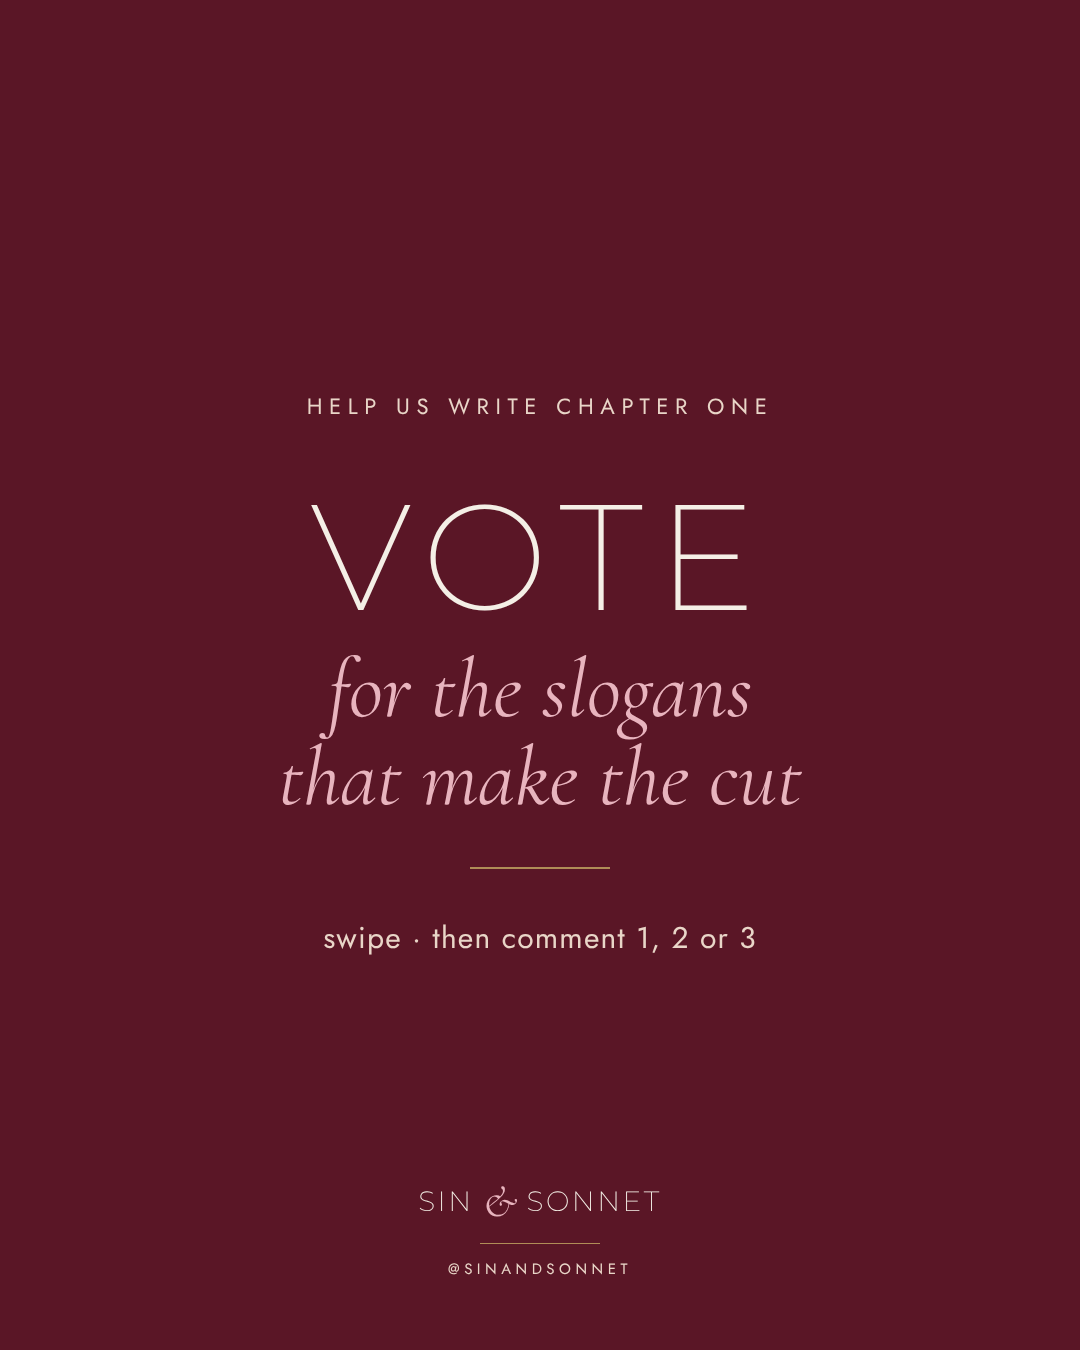
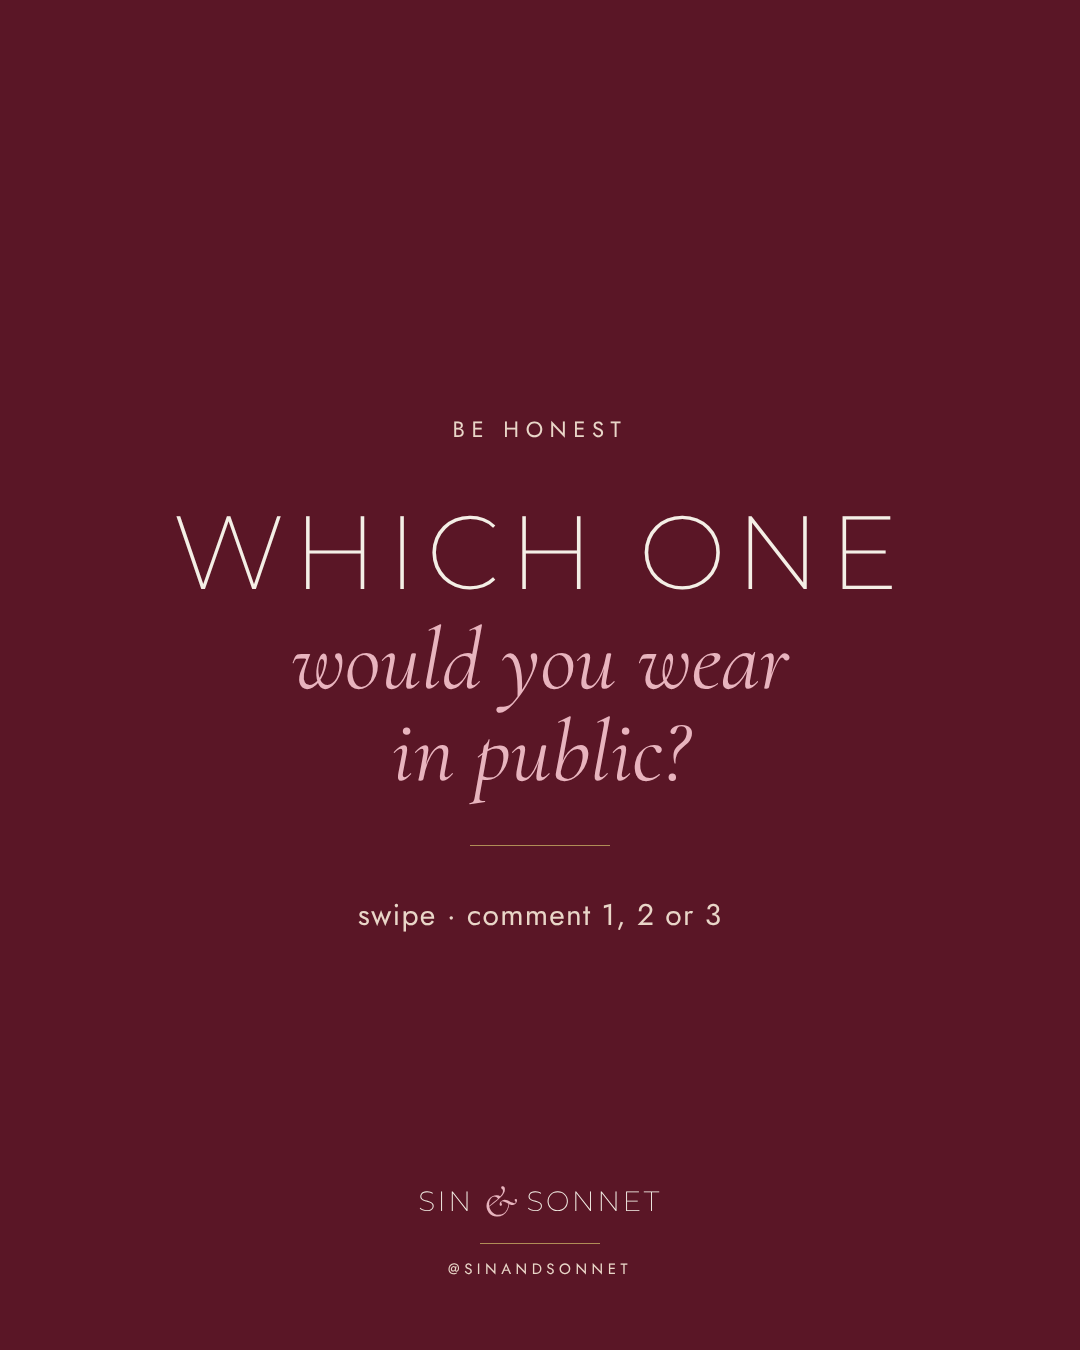
Rework Saturday vote post: stronger hook, honest premise
Chapter One slogans are already locked, so the old caption promised
something already decided. Reframes the vote as the next drop and
swaps the slide-1 brand ask for an open-loop dare.

Claude-Session: https://claude.ai/code/session_01YKca3UJsJExn9yhii4vMRa

diff --git a/brand-kit/weeks/vote_options.py b/brand-kit/weeks/vote_options.py
@@ -1,0 +1,26 @@
+import os, sys
+sys.path.insert(0, os.path.join(os.path.dirname(os.path.abspath(__file__)), '..'))
+from render import *
+
+OUT = 'out/vote'
+P = {}
+
+# Option 1 — honest + minimal change. States plainly that ch.1 is done.
+P['opt1'] = ('bur', FEED, kicker('chapter two · you decide', 'bur')
+             + head('Which one', 'bur', 104) + ital('goes on the<br>next shirt?', 'bur', 96)
+             + rule() + small('swipe · comment 1, 2 or 3', 'bur', 30), {})
+
+# Option 2 — reader identity. "pick your fighter" is a native phrase.
+P['opt2'] = ('bur', FEED, kicker('dark romance readers', 'bur')
+             + head('Pick your', 'bur', 104) + ital('fighter.', 'bur', 140)
+             + rule() + small('swipe · comment 1, 2 or 3', 'bur', 30), {})
+
+# Option 3 — the dare. Open loop + callback to the line that already worked.
+P['opt3'] = ('bur', FEED, kicker('be honest', 'bur')
+             + head('Which one', 'bur', 104) + ital('would you wear<br>in public?', 'bur', 88)
+             + rule() + small('swipe · comment 1, 2 or 3', 'bur', 30), {})
+
+if __name__ == '__main__':
+    build(P, outdir=OUT)
+    sheet(['opt1', 'opt2', 'opt3'], f'{OUT}/vote-options.png', outdir=OUT, cols=3)
+    print('done')
